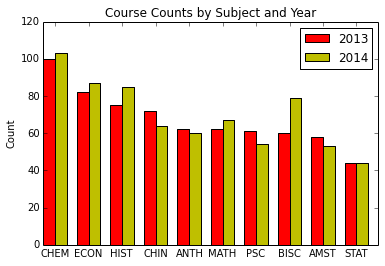
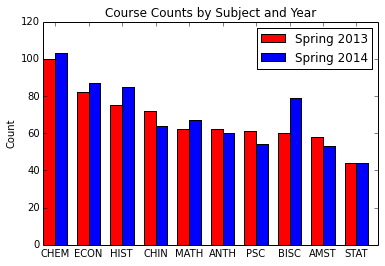
tested

diff --git a/submission.py b/submission.py
@@ -14,9 +14,12 @@ import pandas as pd
 import numpy as np
 import matplotlib.pyplot as plt
 
-### constants ###
+### Program Variables ###
 #saveDir = "/Users/dstuckey/Desktop/GW/Programming for Analytics/HW 2"
 saveDir = "."
+mysql_user = "root"
+mysql_pass = ""
+mysql_db = "classwork"
 
 ### BEGIN Function Declarations ###
 
@@ -42,9 +45,9 @@ def getCourseList(termId, subject):
 
 def getDBConnect():
     return myDB.connect(host='localhost',
-                                user='root',
-                                passwd='',
-                                db='classwork')
+                                user=mysql_user,
+                                passwd=mysql_pass,
+                                db=mysql_db)
 
 # Function to save DataFrame to MySQL database
 def saveToDB(df, termId, dbConnect):
@@ -57,7 +60,7 @@ def saveToDB(df, termId, dbConnect):
 
 # Missing sqlalchemy.schema module
 def readFromDB(termId, dbConnect):
-    engine = create_engine('mysql+mysqldb://root:@localhost/classwork')
+    engine = create_engine('mysql+mysqldb://' + mysql_user + ':' + mysql_pass + '@localhost/' + mysql_db)
     
     return pd.read_sql_table('sp_' + termId, con=engine)
 
@@ -203,7 +206,7 @@ barHeight2013 = combinedCounts['2013 total']
 barHeight2014 = combinedCounts['2014 total']
 
 rects2013 = ax.bar(ind, barHeight2013, width, color='r')
-rects2014 = ax.bar(ind+width, barHeight2014, width, color='y')
+rects2014 = ax.bar(ind+width, barHeight2014, width, color='b')
 
 # add some text for labels, title and axes ticks
 ax.set_ylabel('Count')
@@ -211,7 +214,7 @@ ax.set_title('Course Counts by Subject and Year')
 ax.set_xticks(ind+width)
 ax.set_xticklabels( combinedCounts['subject'] )
 
-ax.legend( (rects2013[0], rects2014[0]), ('2013', '2014') )
+ax.legend( (rects2013[0], rects2014[0]), ('Spring 2013', 'Spring 2014') )
 
 plt.show()
 ### End Graph ###
